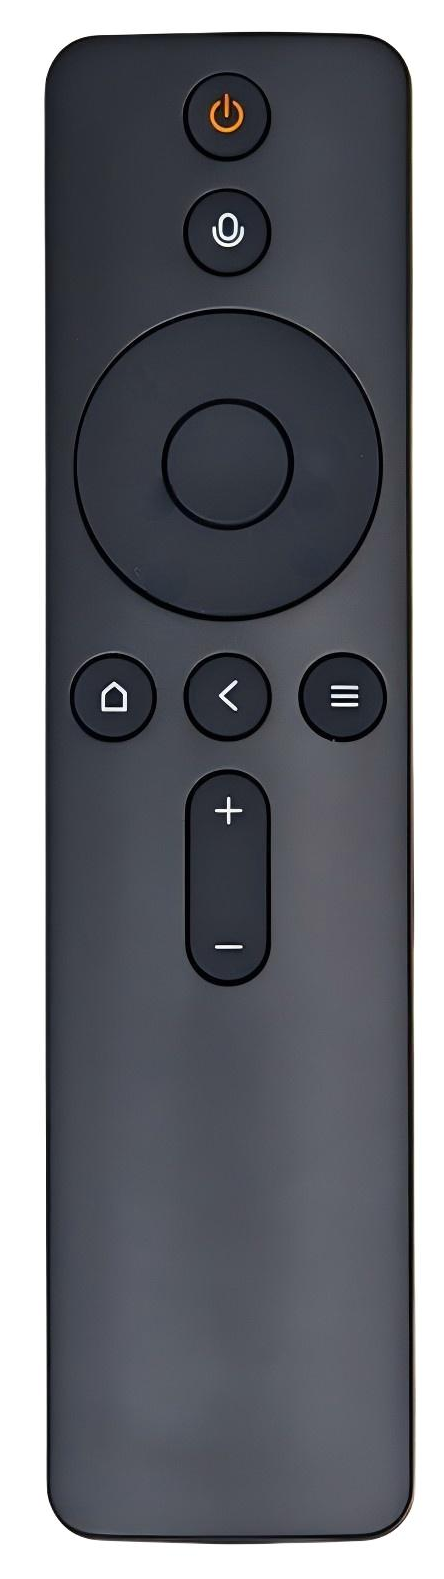
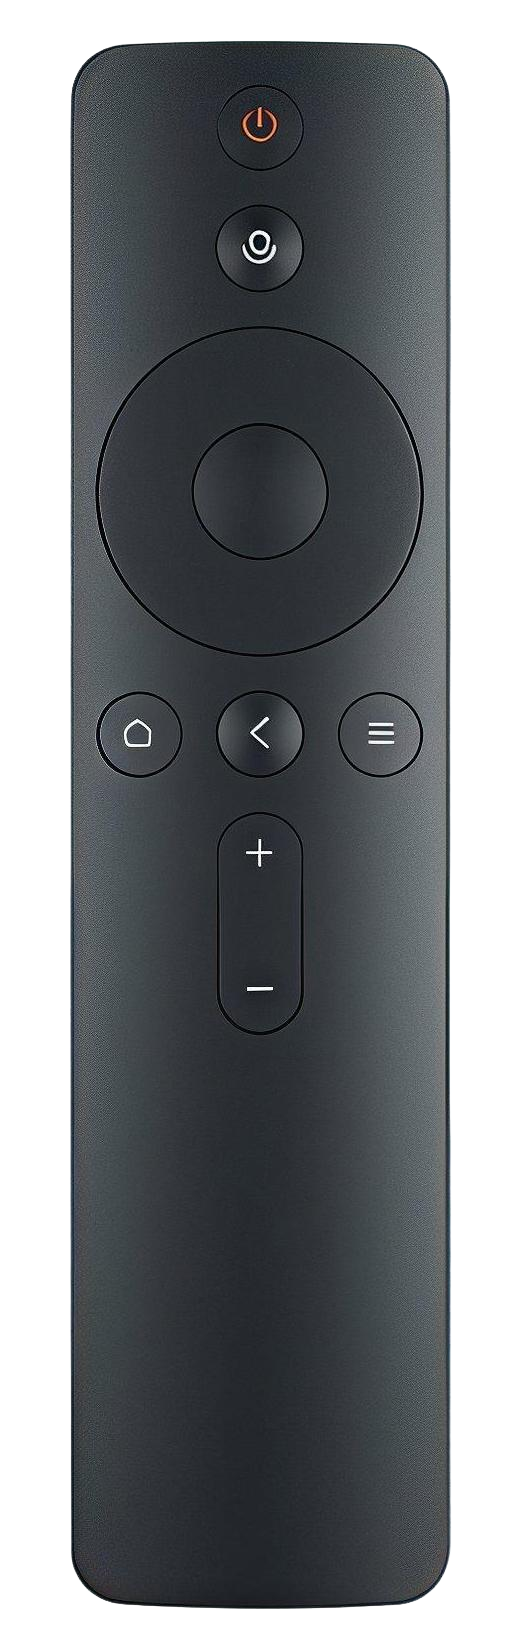
feat(ui): ARN9 产品图、热区标定与正式名称
- 按键工作台按型号换产品图：ARN9 用 xiaomi-arn9.png（514x1640），11 个热区坐标
  由图像边缘检测实测得出（D-pad 外圈圆心与半径、电源圆心、三键行、音量摇杆上下半区），
  不再目测估算
- 连接页设备卡片换成 xiaomi-arn9-line.png
- 配对帮助新增 ARN9 第三个型号标签；因 ARN9 没有 TV 键，隐藏「先按 TV 完成初始化」
  这条只对 RC003 适用的提示
- 正式名称：deviceProductNameKey 对 ARN9 返回「小米蓝牙语音遥控器」；
  「关于」页改用同一函数，不再各处手写 RC003/RC001 判断
- 产品图说明文案按型号区分

diff --git a/apps/shengjian-desktop/src/components/ProfileWorkbench.vue b/apps/shengjian-desktop/src/components/ProfileWorkbench.vue
@@ -1,10 +1,12 @@
 <script setup lang="ts">
 import { computed, ref, shallowRef } from "vue";
 import { Search } from "lucide-vue-next";
-import remoteImage from "../assets/devices/xiaomi-rc003.png";
+import rc003Image from "../assets/devices/xiaomi-rc003.png";
+import arn9Image from "../assets/devices/xiaomi-arn9.png";
 import {
   PROFILE_BUTTONS,
   PROFILE_TRIGGERS,
+  profileButtonsForModel,
   type ProfileDraft,
   type ProfileTrigger,
 } from "../lib/buttons";
@@ -59,7 +61,10 @@ const CAPS: Record<string, string> = {
   "volume-down": "−",
 };
 
-const totalTriggers = PROFILE_BUTTONS.length * PROFILE_TRIGGERS.length;
+// 触发总数必须跟着型号走：ARN9 无 TV 键，是 11×3 而不是 12×3。
+const totalTriggers = computed(
+  () => profileButtonsForModel(props.remoteModel).length * PROFILE_TRIGGERS.length,
+);
 
 interface RemoteHotspot {
   id: LogicalButton;
@@ -70,10 +75,10 @@ interface RemoteHotspot {
   shape: "circle" | "zone";
 }
 
-// Percentages are measured from xiaomi-rc003.png (335 x 1081).
-// Only the 12 logical buttons are interactive; the hardware mic remains
-// visible on the product photo but is not a profile target.
-const REMOTE_HOTSPOTS: RemoteHotspot[] = [
+// x/y 是热区**中心**（CSS 用 translate(-50%,-50%)），w/h 是尺寸，均为图片宽高的百分比。
+// 只标逻辑按键；硬件麦克风在产品图上可见但不是方案目标。
+// 百分比是按各自产品图单独量的——两张图尺寸不同，不能共用一套坐标。
+const RC003_HOTSPOTS: RemoteHotspot[] = [
   { id: "power", x: 29.55, y: 9.3, w: 17.6, h: 5.55, shape: "circle" },
   { id: "up", x: 49.85, y: 17.5, w: 17, h: 4.8, shape: "circle" },
   { id: "down", x: 49.85, y: 31.2, w: 17, h: 4.8, shape: "circle" },
@@ -87,6 +92,43 @@ const REMOTE_HOTSPOTS: RemoteHotspot[] = [
   { id: "volume-down", x: 65.67, y: 48.33, w: 25.4, h: 7.86, shape: "circle" },
   { id: "tv", x: 65.67, y: 57.42, w: 25.4, h: 7.86, shape: "circle" },
 ];
+
+/**
+ * ARN9 普通款：514 x 1640 产品图，坐标由图像边缘检测实测得出（不是目测）。
+ *
+ * 实测几何：D-pad 外圈圆心 (257.5, 482)、半径 157；内圈(OK) 半径 64；
+ * 电源圆心 (258, 122)；三键行 y = 735；音量摇杆 +/− 中心 y = 858 / 976。
+ * 方向键取环带中径（外 157、内 64 → 110）上四个正方向的点。
+ *
+ * 与 RC003 的布局差异：没有 TV 键；Home / 返回 / 菜单 是同一行的三颗独立键；
+ * 音量是一根上下摇杆（+ 上半、− 下半）。
+ */
+const ARN9_HOTSPOTS: RemoteHotspot[] = [
+  { id: "power", x: 50.3, y: 7.47, w: 16, h: 5, shape: "circle" },
+  { id: "up", x: 50.3, y: 22.65, w: 17.1, h: 5.4, shape: "circle" },
+  { id: "down", x: 50.3, y: 36.13, w: 17.1, h: 5.4, shape: "circle" },
+  { id: "left", x: 28.8, y: 29.39, w: 17.1, h: 5.4, shape: "circle" },
+  { id: "right", x: 71.8, y: 29.39, w: 17.1, h: 5.4, shape: "circle" },
+  { id: "ok", x: 50.1, y: 29.42, w: 23.3, h: 7.3, shape: "circle" },
+  { id: "home", x: 27.3, y: 44.82, w: 16, h: 5, shape: "circle" },
+  { id: "back", x: 49.8, y: 44.82, w: 16, h: 5, shape: "circle" },
+  { id: "menu", x: 73.6, y: 44.82, w: 16, h: 5, shape: "circle" },
+  { id: "volume-up", x: 50.1, y: 52.32, w: 16, h: 5, shape: "circle" },
+  { id: "volume-down", x: 50.1, y: 59.51, w: 16, h: 5, shape: "circle" },
+];
+
+const isArn9 = computed(() => (props.remoteModel ?? "").trim().toUpperCase() === "ARN9");
+const remoteImage = computed(() => (isArn9.value ? arn9Image : rc003Image));
+const REMOTE_HOTSPOTS = computed(() => (isArn9.value ? ARN9_HOTSPOTS : RC003_HOTSPOTS));
+const remoteAlt = computed(() =>
+  isArn9.value ? tr("小米蓝牙语音遥控器") : tr("小米蓝牙语音遥控器 2 Pro"),
+);
+/** 产品图说明：两张图各自对位，不要写成同一句。 */
+const productNote = computed(() =>
+  isArn9.value
+    ? tr("按 ARN9 产品图对位；语音键为硬件键。")
+    : tr("按 RC003 产品图对位；语音键为硬件键。"),
+);
 
 function hotspotStyle(hotspot: RemoteHotspot) {
   return {
@@ -157,7 +199,8 @@ function isButtonModified(button: LogicalButton): boolean {
 
 const visibleButtons = computed(() => {
   const value = query.value.trim().toLowerCase();
-  return PROFILE_BUTTONS.filter((button) => {
+  // 该型号没有的按键（ARN9 无 TV 键）不列出来，避免让人去配一个按不到的键。
+  return profileButtonsForModel(props.remoteModel).filter((button) => {
     if (
       onlyConfigured.value &&
       !PROFILE_TRIGGERS.some((trigger) => actionFor(button.id, trigger))
@@ -198,12 +241,7 @@ function selectCell(button: LogicalButton, trigger: ProfileTrigger) {
         </div>
         <div class="product-stage">
           <div class="product-remote">
-            <img
-              class="remote-photo"
-              :src="remoteImage"
-              alt="Xiaomi RC003 遥控器"
-              draggable="false"
-            />
+            <img class="remote-photo" :src="remoteImage" :alt="remoteAlt" draggable="false" />
             <button
               v-for="hotspot in REMOTE_HOTSPOTS"
               :key="hotspot.id"
@@ -217,7 +255,7 @@ function selectCell(button: LogicalButton, trigger: ProfileTrigger) {
               @click="selectButton(hotspot.id)"
             />
           </div>
-          <p class="product-note">{{ tr("按 RC003 产品图对位；语音键为硬件键。") }}</p>
+          <p class="product-note">{{ productNote }}</p>
         </div>
         <div class="remote-footer">
           <span>{{ tr("点击按键查看绑定") }}</span>

diff --git a/apps/shengjian-desktop/src/components/DevicePairingHelp.vue b/apps/shengjian-desktop/src/components/DevicePairingHelp.vue
@@ -5,6 +5,7 @@ import { tr, trDynamic } from "../lib/i18n";
 import { normalizePairingModel, type PairingModel } from "../stores/pairing";
 import rc001Photo from "../assets/devices/xiaomi-rc001.png";
 import rc003Photo from "../assets/devices/xiaomi-rc003.png";
+import arn9Photo from "../assets/devices/xiaomi-arn9.png";
 
 const props = defineProps<{
   initialModel?: string | null;
@@ -27,6 +28,8 @@ interface ModelInfo {
   image: string;
   width: number;
   height: number;
+  /** 该型号是否有 TV 键：决定「先按 TV 完成初始化」这条提示是否显示。 */
+  hasTvKey: boolean;
   hotspots: ButtonHotspot[];
 }
 
@@ -37,6 +40,7 @@ const MODELS: Record<PairingModel, ModelInfo> = {
     image: rc003Photo,
     width: 335,
     height: 1081,
+    hasTvKey: true,
     hotspots: [
       { label: "主页键", x: 0.334, y: 0.483, side: "left" },
       { label: "菜单键", x: 0.334, y: 0.574, side: "left" },
@@ -49,10 +53,24 @@ const MODELS: Record<PairingModel, ModelInfo> = {
     image: rc001Photo,
     width: 341,
     height: 1103,
+    hasTvKey: true,
     hotspots: [
       { label: "主页键", x: 0.336, y: 0.489, side: "left" },
       { label: "菜单键", x: 0.336, y: 0.576, side: "left" },
       { label: "TV", x: 0.652, y: 0.576, side: "right" },
+    ],
+  },
+  // ARN9 普通款：514 x 1640 实拍图；没有 TV 键，Home / 返回 / 菜单 是同一行的三颗独立键。
+  ARN9: {
+    nameKey: "小米蓝牙语音遥控器",
+    bluetoothName: "小米蓝牙语音遥控器",
+    image: arn9Photo,
+    width: 514,
+    height: 1640,
+    hasTvKey: false,
+    hotspots: [
+      { label: "主页键", x: 0.27, y: 0.447, side: "left" },
+      { label: "菜单键", x: 0.755, y: 0.447, side: "right" },
     ],
   },
 };
@@ -224,7 +242,8 @@ onUnmounted(() => {
               </li>
             </ol>
 
-            <p class="init-note">
+            <!-- ARN9 没有 TV 键，这条初始化提示只对本型号不适用。 -->
+            <p v-if="model.hasTvKey" class="init-note">
               <Tv :size="16" />
               <span>{{ tr("新遥控器请先按一次「TV」键完成初始化，再进入配对。") }}</span>
             </p>

diff --git a/apps/shengjian-desktop/src/pages/AboutPage.vue b/apps/shengjian-desktop/src/pages/AboutPage.vue
@@ -3,6 +3,7 @@ import { computed, onMounted, ref, shallowRef } from "vue";
 import { getVersion } from "@tauri-apps/api/app";
 import { Boxes, RefreshCw, ShieldCheck } from "lucide-vue-next";
 import { getDeviceSupport, getHostCapabilities, openExternalUrl, errorMessage } from "../lib/api";
+import { deviceProductNameKey } from "../lib/deviceProduct";
 import { statusLabel, tr, trDynamic } from "../lib/i18n";
 import { useUpdateStore } from "../stores/update";
 import { usePairingStore } from "../stores/pairing";
@@ -58,9 +59,8 @@ function platformNameFor(id: string): string {
 }
 
 function supportDeviceName(device: DeviceSupport): string {
-  if (device.model === "RC003") return tr("小米蓝牙语音遥控器 2 Pro");
-  if (device.model === "RC001") return tr("小米蓝牙语音遥控器 2");
-  return device.displayName;
+  const key = deviceProductNameKey(device.model);
+  return key ? trDynamic(key) : device.displayName;
 }
 
 function supportTone(status: string): StatusTone {

diff --git a/apps/shengjian-desktop/src/pages/ConnectionPage.vue b/apps/shengjian-desktop/src/pages/ConnectionPage.vue
@@ -15,6 +15,7 @@ import { deviceProductNameKey } from "../lib/deviceProduct";
 import type { AudioEndpoint, SettingsDocument } from "../lib/types";
 import rc001Line from "../assets/devices/xiaomi-rc001-line.png";
 import rc003Line from "../assets/devices/xiaomi-rc003-line.png";
+import arn9Line from "../assets/devices/xiaomi-arn9-line.png";
 import PageHeader from "../components/PageHeader.vue";
 import Button from "../components/ui/Button.vue";
 import Card from "../components/ui/Card.vue";
@@ -66,6 +67,7 @@ const deviceProductName = computed(() => {
 });
 const deviceArtwork = computed(() => {
   if (!store.isConnected) return null;
+  if (remoteModel.value === "ARN9") return arn9Line;
   return isRc001.value ? rc001Line : rc003Line;
 });
 const autoConnecting = shallowRef(false);

diff --git a/apps/shengjian-desktop/src/lib/deviceProduct.ts b/apps/shengjian-desktop/src/lib/deviceProduct.ts
@@ -1,5 +1,13 @@
+/**
+ * 型号 → 产品正式名称（i18n key）。
+ *
+ * 名称以真机/厂商命名为准：ARN9 小鸟款与 RC003 2 Pro 是两款不同产品，
+ * 但广播名都叫「小米蓝牙语音遥控器」，所以这里必须按型号分开写，
+ * 不能沿用广播名。
+ */
 export function deviceProductNameKey(model?: string | null): string | null {
   if (model === "RC003") return "小米蓝牙语音遥控器 2 Pro";
+  if (model === "ARN9") return "小米蓝牙语音遥控器";
   if (model === "RC001") return "小米蓝牙语音遥控器 2";
   return null;
 }

diff --git a/apps/shengjian-desktop/src/stores/pairing.ts b/apps/shengjian-desktop/src/stores/pairing.ts
@@ -1,9 +1,11 @@
 import { defineStore } from "pinia";
 
-export type PairingModel = "RC001" | "RC003";
+export type PairingModel = "RC001" | "RC003" | "ARN9";
 
 export function normalizePairingModel(model?: string | null): PairingModel {
-  return model === "RC001" ? "RC001" : "RC003";
+  if (model === "RC001") return "RC001";
+  if (model === "ARN9") return "ARN9";
+  return "RC003";
 }
 
 export const usePairingStore = defineStore("pairing", {
